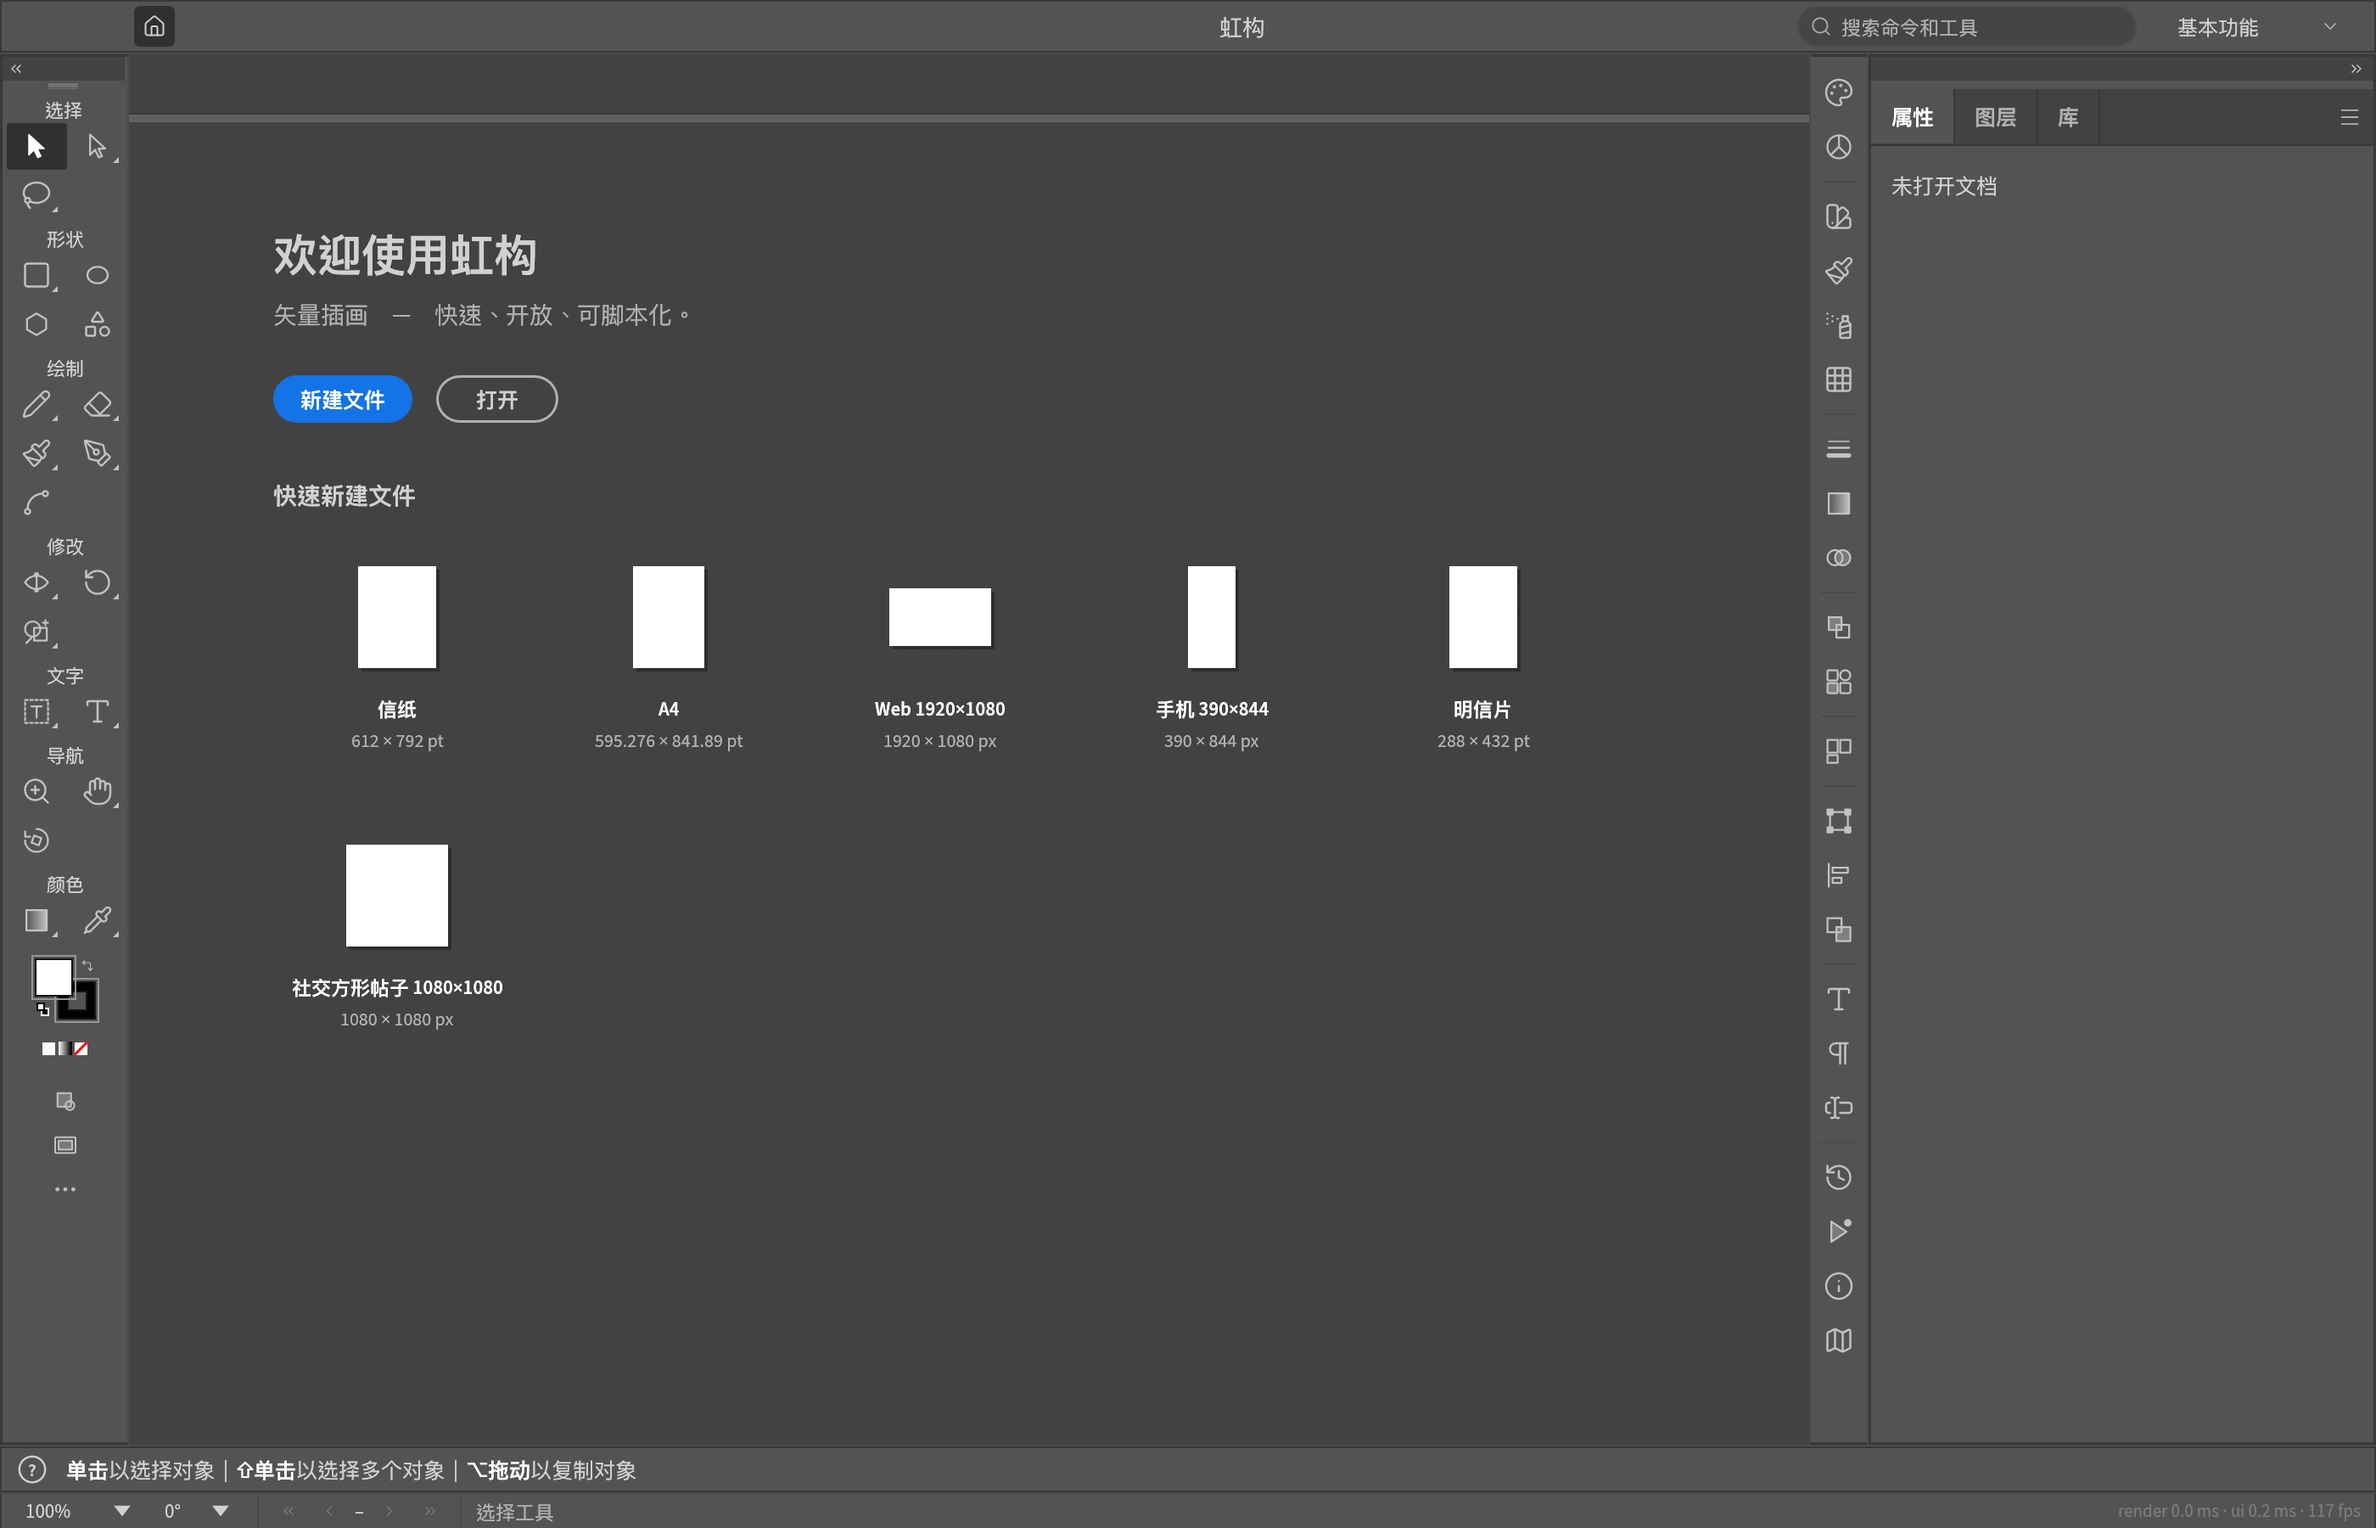
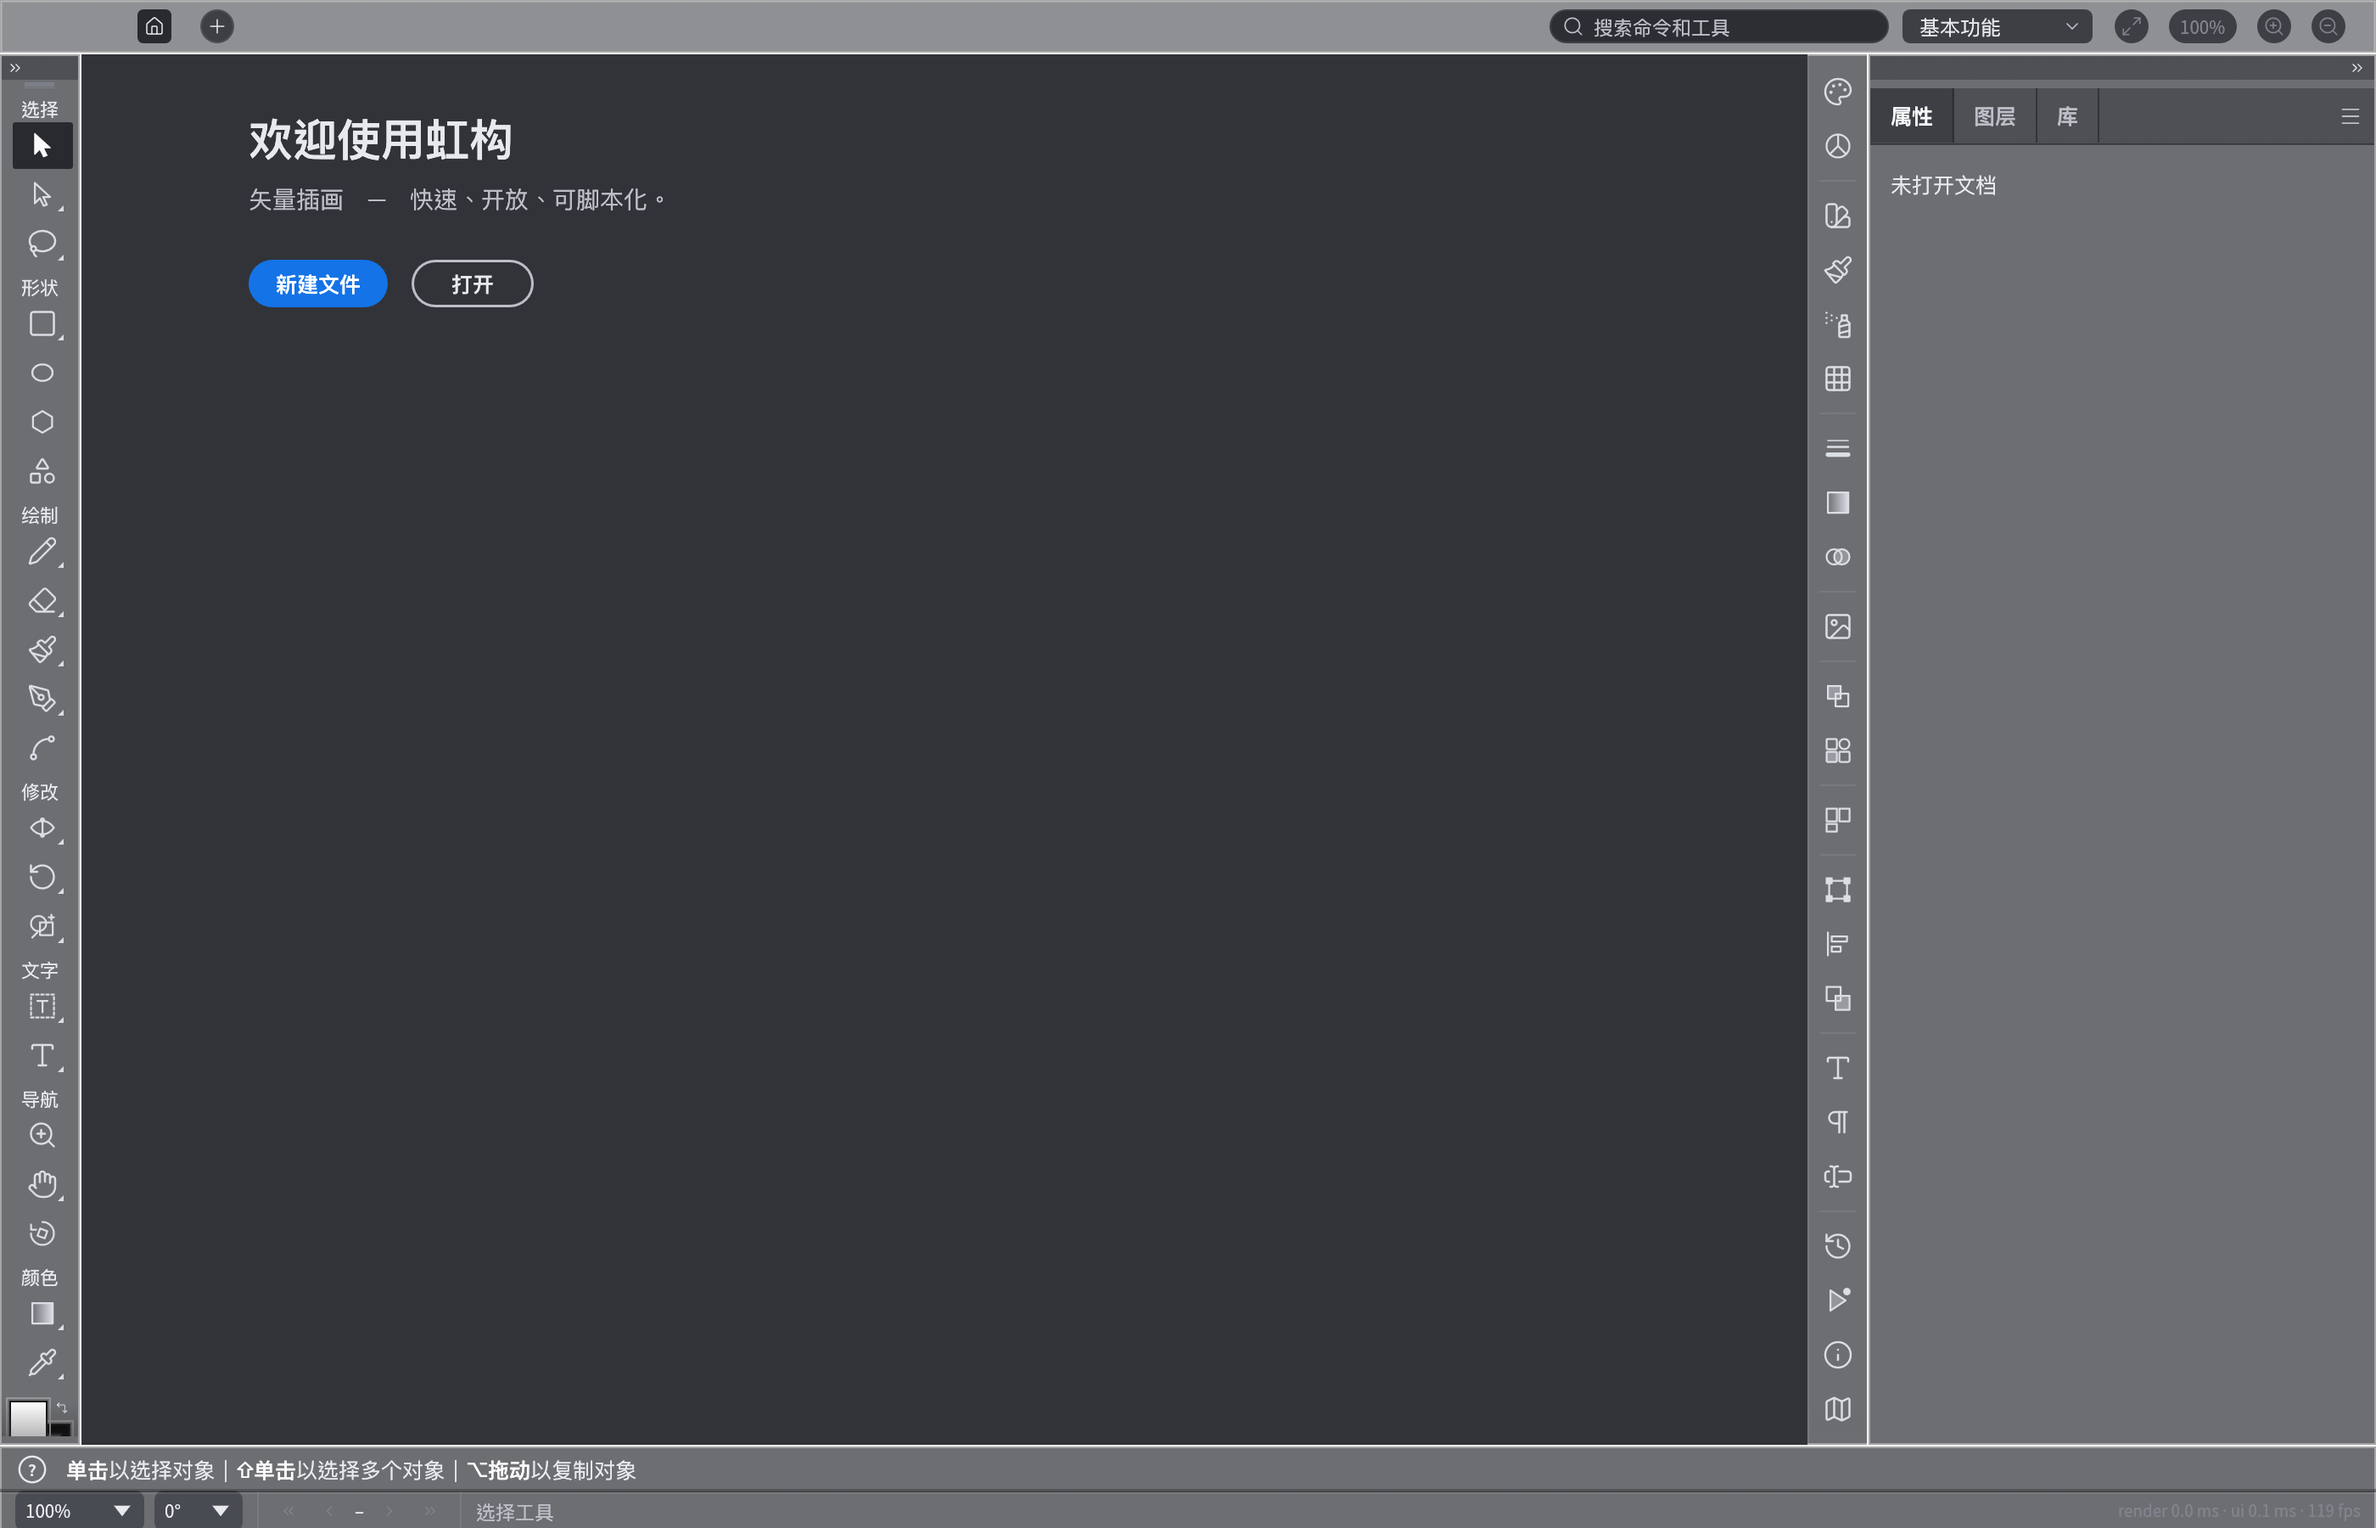
RELEASE-20261013: prepare Kaleiform preview 6

diff --git a/README.md b/README.md
@@ -17,7 +17,7 @@
 它不是从零编写的全新绘图引擎，也不是 VectorCraft / ArtCraft 的官方发行版。
 上游代码、作者和第三方资产的版权及许可声明均予以保留。
 
-**当前为早期预览版 `0.7.0-kaleiform.5`。** 适合体验、学习与参与开发；重要作品请保留原件并经常另存。
+**当前为早期预览版 `0.7.0-kaleiform.6`。** 适合体验、学习与参与开发；重要作品请保留原件并经常另存。
 本版已同步至官方固定提交 `21355945`，包含官方 `v0.7.0` 之后的改动，
 并加入默认动作翻译、浮出面板布局和偏移路径保护。同步范围见 [集成说明](docs/upstream-integration-2026-10-10.md)。
 当前提供 **macOS Apple Silicon（M1 / M2 / M3 / M4 等）** 安装包。
@@ -30,14 +30,14 @@
 同时改进平滑工具图标、笔刷预览和撤销，重排图像描摹面板，补齐中文文案并修复面板遮挡。
 全目录基础回归覆盖 90 个工具和 119 项首选项；已通过范围与未实现功能见 [测试报告](docs/qa-2026-10-12.md)。
 
-当前源码另有 macOS 紧凑顶栏：文档使用圆角标签，带新建、关闭和未保存提示，右侧提供适合画板与缩放操作；不再显示居中的应用名。顶栏按钮底色缩小并增加上下留白，点击区域保持不变。“新建画布”只保留一个缩小后的预设窗口，参数可滚动，画板排列等高级选项已合并，创建按钮保持可见，并修正了右侧背景覆盖窗口圆角的问题。首页最近文件改为后台加载的缩略图网格，文件名自动省略，完整路径仅在悬浮提示中显示；预览只在本机内存中缓存。首页不再显示重复的“快速新建文件”预设区，预设统一保留在“新建文件”窗口中。这些修订尚未包含在上述预览 5 下载包中。
+**预览 6** 加入 macOS 紧凑顶栏：文档使用圆角标签，带新建、关闭和未保存提示，右侧提供适合画板与缩放操作；不再显示居中的应用名。顶栏按钮底色缩小并增加上下留白，点击区域保持不变。“新建画布”只保留一个缩小后的预设窗口，参数可滚动，画板排列等高级选项已合并，创建按钮保持可见，并修正了右侧背景覆盖窗口圆角的问题。首页最近文件改为后台加载的缩略图网格，文件名自动省略，完整路径仅在悬浮提示中显示；预览只在本机内存中缓存。首页不再显示重复的“快速新建文件”预设区，预设统一保留在“新建文件”窗口中。本次验证范围和限制见 [预览 6 测试报告](docs/qa-2026-10-13.md)。
 
 ![虹构中文界面](docs/images/kaleiform-interface.png)
 
 ## 下载与安装
 
 1. 打开 [Releases](https://github.com/Pengjingyu1992/Kaleiform/releases)，选择最新的虹构预览版。
-2. Apple Silicon Mac 下载 `kaleiform-0.7.0-kaleiform.5-macos-arm64.dmg`。
+2. Apple Silicon Mac 下载 `kaleiform-0.7.0-kaleiform.6-macos-arm64.dmg`。
 3. 打开 DMG，将 **虹构.app** 拖入 **Applications / 应用程序**，从应用程序文件夹启动。
 4. 本版只有 ad-hoc 本地签名，**没有 Apple Developer ID 签名或公证**。如果 macOS 拦截，
    先核对下载来源和 SHA-256，再按系统提示前往“系统设置 → 隐私与安全性 → 仍要打开”。
@@ -57,7 +57,7 @@
 - 图片转矢量的图像描摹，包含彩色、灰度、黑白和不同预设。
 - SVG / PDF 及 PDF 兼容 `.ai` 的导入导出，以及常见位图输出。
   非 PDF 兼容的专有 `.ai` 内容不保证可读；复杂文件往返也不保证完全无损。
-- 当前源码已补齐 EPS / ASCII DXF 的打开、简单编辑、保存及另存为；尚未包含在上述预览 5 下载包中。
+- 预览 6 已补齐 EPS / ASCII DXF 的打开、简单编辑、保存及另存为。
   EPS 保存附带虹构编辑数据；DXF 默认保留可编辑文字和描边，但不保证 CAD 数据无损往返。
   版本边界、覆盖保护及用法见 [EPS / DXF 文件说明](docs/eps-dxf.md)。
 - 撤销重做、原生 JSON 文档、命令行批处理、JSON 控制通道及 MCP。

diff --git a/docs/qa-2026-10-13.md b/docs/qa-2026-10-13.md
@@ -1,0 +1,42 @@
+# 虹构预览 6 测试范围
+
+本报告覆盖预览 5 之后的 EPS/DXF 保存、macOS 紧凑顶栏、统一新建画布窗口和首页缩略图。
+功能基线为提交 `116493f7`，发布另包含版本与文档更新；旧版目录扫描见
+[预览 5 报告](qa-2026-10-12.md)。测试以自行生成的图形为输入，不运行或读取 Adobe 软件。
+
+## 自动化回归
+
+- 发布复核的 `cargo xtask ci` 格式、Clippy、工作区测试、资产来源、品牌、层次和 WASM 七项通过；
+  工作区共 4,698 项测试通过、0 项失败，默认忽略的 4 项慢速测试已另行通过。
+- 全工具安全扫描覆盖 90 个工具、3 种文档状态、3 组修饰键和3种结束方式，共 2,430 组交互。
+  它检查基础操作、取消与状态清理，不代表每个工具的每种参数都已人工验收。
+- 定向复测浮动面板 9 项、停靠 8 项、最近文件预览 3 项、顶栏 6 项、新建文档 8 项、
+  保存选项 8 项和 EPS/DXF 保存 6 项，全部通过。
+- Release 模式下另运行效果查找、像素滤镜、1,000 个圆的布尔运算、1,000 × 1,000
+  黑白描摹的四项慢速测试，全部通过。
+- CLI 的 50,000 路径合成场景十项性能预算通过。运行时系统繁忙，计时不能视为空闲机器基准，
+  更不能用来断言与其他软件的速度差异。
+
+## 本机交互检查
+
+macOS Apple Silicon 安装版在隔离的无首选项模式下启动，使用实际 Metal 后端。
+检查了简体中文首页、移除重复快速预设、新建窗口的打开/取消、创建矩形、后台保存原生文档、
+关闭文档后生成真实缩略图、文件名省略和正常退出。没有写入用户的最近文件、设置或恢复记录。
+
+## 结果与边界
+
+上述回归没有确认新的产品缺陷。定向测试偶发的旧增量对象文件缺失警告属于本机构建缓存，
+测试仍成功；完整 CI 通过。它不作为 App 崩溃问题记录。
+
+这不是所有功能、所有参数、所有设备的穷尽证明。预览 5 报告中的未实现功能仍有效，
+例如部分首选项尚未接入行为、Touch Type 未完成、图像描摹仍有同步阶段。
+本轮未在用户作品上强制制造崩溃，也未实测其他桌面系统、所有 macOS 版本或所有显卡。
+EPS 和 DXF 的兼容性与数据损失边界见 [文件说明](eps-dxf.md)。
+
+## 发布审查
+
+发布前核对待推送历史的作者邮箱、API key/凭据、个人路径、资产来源和许可证；
+安装包使用路径重映射、去除调试信息，源码 ZIP 仅由明确的 Git 提交生成。
+发布附件不包含用户作品、首选项、恢复记录、日志、开发缓存或旧 checkout 历史。
+包内版本、构建提交、arm64 架构和签名与发布清单核对；上传后重新下载并验证 SHA-256。
+本版仍为 ad-hoc 签名，未取得 Apple Developer ID 或公证。

diff --git a/docs/installation.md b/docs/installation.md
@@ -2,18 +2,18 @@
 
 ## 预览版支持范围
 
-`0.7.0-kaleiform.5` 是早期预览版，提供 macOS **arm64 / Apple Silicon** 包，
+`0.7.0-kaleiform.6` 是早期预览版，提供 macOS **arm64 / Apple Silicon** 包，
 最低系统声明为 macOS 11，实际交互测试在维护者当前 macOS 上进行，未逐一测试所有系统版本。
 Intel Mac 不能直接使用此 arm64 包。Windows、Linux、FreeBSD 和 Web 暂无本项目已验证的下载包。
 
 ## macOS 安装
 
 1. 从 [本仓库 Releases](https://github.com/Pengjingyu1992/Kaleiform/releases) 下载
-   `kaleiform-0.7.0-kaleiform.5-macos-arm64.dmg` 及 `SHA256SUMS.txt`。
+   `kaleiform-0.7.0-kaleiform.6-macos-arm64.dmg` 及 `SHA256SUMS.txt`。
 2. 可在下载目录运行下面命令，将结果与 `SHA256SUMS.txt` 中同名文件比较：
 
    ```sh
-   shasum -a 256 kaleiform-0.7.0-kaleiform.5-macos-arm64.dmg
+   shasum -a 256 kaleiform-0.7.0-kaleiform.6-macos-arm64.dmg
    ```
 
 3. 双击 DMG，把 **虹构.app** 拖至窗口中的 **Applications** 文件夹。
@@ -35,7 +35,7 @@ SHA-256 只能检测文件与校验清单是否一致，不能代替开发者身
 
 ### ZIP 备选
 
-不能挂载 DMG 时，可下载 `kaleiform-0.7.0-kaleiform.5-macos-arm64.zip`，
+不能挂载 DMG 时，可下载 `kaleiform-0.7.0-kaleiform.6-macos-arm64.zip`，
 双击解压，把 **虹构.app** 移入“应用程序”。不要只移动 `.app` 内部的可执行文件。
 ZIP 与 DMG 包含同一份 App，签名与系统安全提示相同。
 

diff --git a/ASSETS.md b/ASSETS.md
@@ -12,7 +12,7 @@ Generated-in-code art is original and has no file to list. This covers the defau
 
 | Asset | Author | Source | Licence | Notes |
 |---|---|---|---|---|
-| `docs/images/kaleiform-interface.png` | Kaleiform project maintainer | Captured from Kaleiform for this release | MIT OR Apache-2.0 | Chinese welcome screen, no open personal document |
+| `docs/images/kaleiform-interface.png` | Kaleiform project maintainer | Captured from Kaleiform for preview 6 | MIT OR Apache-2.0 | Chinese welcome screen at functional commit 116493f7, isolated without preferences or personal documents; no embedded metadata |
 | `assets/app-icon/LICENSE.txt` | (licence text) | Kaleiform project | MIT OR Apache-2.0 |  |
 | `assets/app-icon/README.md` | (asset documentation) | Kaleiform project | MIT OR Apache-2.0 |  |
 | `assets/app-icon/hicolor/128x128/apps/ai.storyteller.vectorcraft.png` | Kaleiform project | Resized from the square logo canvas by `packaging/icons.sh` | MIT OR Apache-2.0 (`assets/app-icon/LICENSE.txt`) | Linux theme icon |

diff --git a/docs/eps-dxf.md b/docs/eps-dxf.md
@@ -1,6 +1,6 @@
 # EPS / DXF 的打开、编辑与保存
 
-此功能已加入当前源码，预览 `0.7.0-kaleiform.5` 下载包尚不包含此次新增的直接保存流程。
+此功能包含在预览 `0.7.0-kaleiform.6` 的源码及 macOS Apple Silicon 下载包中。
 
 ## 使用
 
